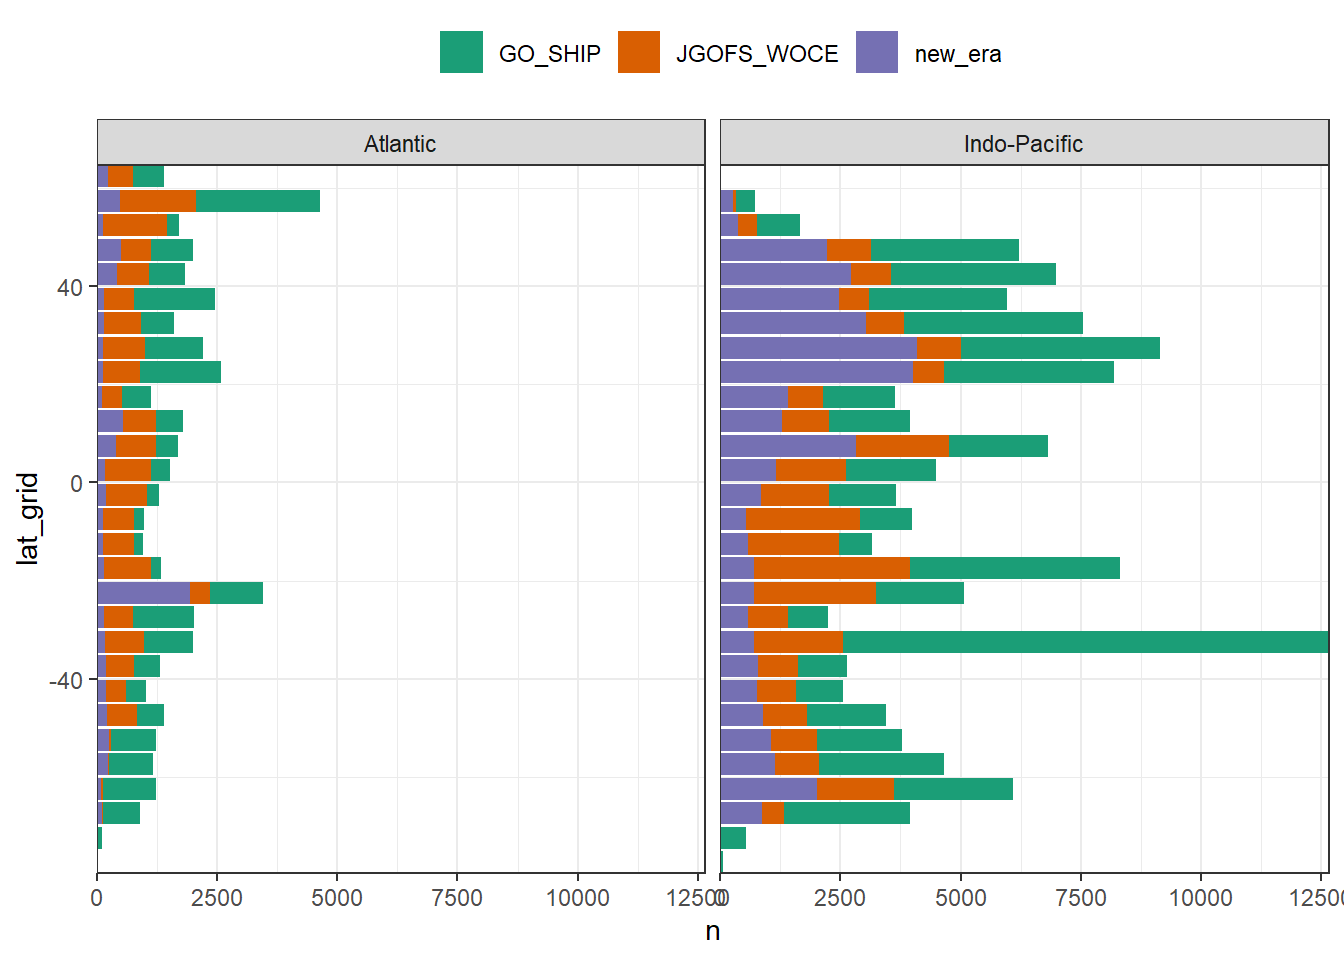
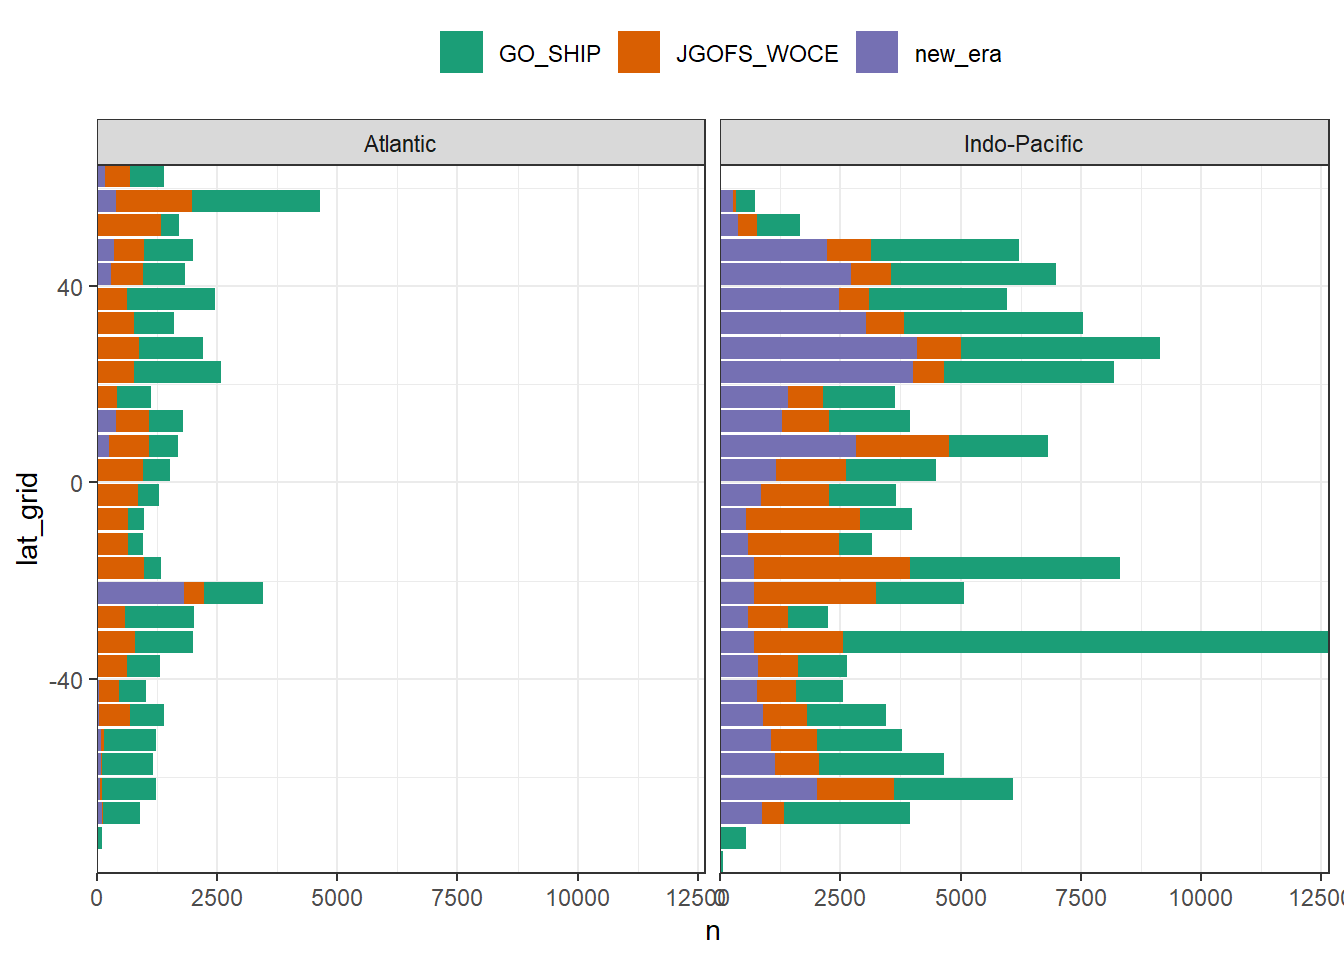
Build site.

Changed region(s): [[0.0625, 0.2188, 0.125, 0.5938], [0.0625, 0.625, 0.125, 0.8125], [0.125, 0.5938, 0.1562, 0.625]]

diff --git a/docs/read_GLODAPv2_2020.html b/docs/read_GLODAPv2_2020.html
@@ -573,16 +573,16 @@ This reproducible <a href="http://rmarkdown.rstudio.com">R Markdown</a> analysis
 <div class="panel panel-default">
 <div class="panel-heading">
 <p class="panel-title">
-<a data-toggle="collapse" data-parent="#workflowr-checks" href="#strongRepositoryversionstrongahrefhttpsgithubcomjensdanielmuellerCanteMLRtree7fb61d53b10516882f97bf51fab25c73aa8b8af8targetblank7fb61d5a"> <span class="glyphicon glyphicon-ok text-success" aria-hidden="true"></span> <strong>Repository version:</strong> <a href="https://github.com/jens-daniel-mueller/Cant_eMLR/tree/7fb61d53b10516882f97bf51fab25c73aa8b8af8" target="_blank">7fb61d5</a> </a>
+<a data-toggle="collapse" data-parent="#workflowr-checks" href="#strongRepositoryversionstrongahrefhttpsgithubcomjensdanielmuellerCanteMLRtree7460b1fa9ca00692696fd505e47eae654ef89b15targetblank7460b1fa"> <span class="glyphicon glyphicon-ok text-success" aria-hidden="true"></span> <strong>Repository version:</strong> <a href="https://github.com/jens-daniel-mueller/Cant_eMLR/tree/7460b1fa9ca00692696fd505e47eae654ef89b15" target="_blank">7460b1f</a> </a>
 </p>
 </div>
[2 lines of base64/hex data omitted]
 <div class="panel-body">
 <p>
 Great! You are using Git for version control. Tracking code development and connecting the code version to the results is critical for reproducibility.
 </p>
 <p>
-The results in this page were generated with repository version <a href="https://github.com/jens-daniel-mueller/Cant_eMLR/tree/7fb61d53b10516882f97bf51fab25c73aa8b8af8" target="_blank">7fb61d5</a>. See the <em>Past versions</em> tab to see a history of the changes made to the R Markdown and HTML files.
+The results in this page were generated with repository version <a href="https://github.com/jens-daniel-mueller/Cant_eMLR/tree/7460b1fa9ca00692696fd505e47eae654ef89b15" target="_blank">7460b1f</a>. See the <em>Past versions</em> tab to see a history of the changes made to the R Markdown and HTML files.
 </p>
 <p>
 Note that you need to be careful to ensure that all relevant files for the analysis have been committed to Git prior to generating the results (you can use <code>wflow_publish</code> or <code>wflow_git_commit</code>). workflowr only checks the R Markdown file, but you know if there are other scripts or data files that it depends on. Below is the status of the Git repository when the results were generated:
@@ -640,6 +640,40 @@ Message
 </tr>
 </thead>
 <tbody>
+<tr>
+<td>
+Rmd
+</td>
+<td>
+<a href="https://github.com/jens-daniel-mueller/Cant_eMLR/blob/7460b1fa9ca00692696fd505e47eae654ef89b15/analysis/read_GLODAPv2_2020.Rmd" target="_blank">7460b1f</a>
+</td>
+<td>
+jens-daniel-mueller
+</td>
+<td>
+2020-08-18
+</td>
+<td>
+assign A16 cruises to GO_SHIP
+</td>
+</tr>
+<tr>
+<td>
+html
+</td>
+<td>
+<a href="https://rawcdn.githack.com/jens-daniel-mueller/Cant_eMLR/29a537a7ee01b57d700956c227680e5248ebe247/docs/read_GLODAPv2_2020.html" target="_blank">29a537a</a>
+</td>
+<td>
+jens-daniel-mueller
+</td>
+<td>
+2020-08-18
+</td>
+<td>
+Build site.
+</td>
+</tr>
 <tr>
 <td>
 Rmd
@@ -2138,22 +2172,8 @@ GLODAP_stats_long  %&gt;%  write_csv(here::here(&quot;data/GLODAPv2_2020/_summar
 
 rm(GLODAP_stats_long, GLODAP_stats)</code></pre>
 </div>
-<div id="reference-eras" class="section level2">
-<h2><span class="header-section-number">2.3</span> Reference eras</h2>
-<p>Samples were assigned to following eras:</p>
-<ul>
-<li><p>JGOFS_WOCE: 1981 - 1999</p></li>
-<li><p>GO_SHIP: 2000 - 2012</p></li>
-<li><p>new_era: &gt; 2013</p></li>
-</ul>
-<pre class="r"><code>GLODAP &lt;- GLODAP %&gt;%
-  filter(year &gt;= parameters$year_JGOFS_start) %&gt;% 
-  mutate(era = &quot;JGOFS_WOCE&quot;,
-         era = if_else(year &gt; parameters$year_JGOFS_end, &quot;GO_SHIP&quot;, era),
-         era = if_else(year &gt; parameters$year_GOSHIP_end, &quot;new_era&quot;, era))</code></pre>
-</div>
 <div id="horizontal-gridding" class="section level2">
-<h2><span class="header-section-number">2.4</span> Horizontal gridding</h2>
+<h2><span class="header-section-number">2.3</span> Horizontal gridding</h2>
 <p>For merging with other data sets, all observations were grouped into latitude intervals of:</p>
 <ul>
 <li>1° x 1°</li>
@@ -2166,7 +2186,7 @@ rm(GLODAP_stats_long, GLODAP_stats)</code></pre>
   arrange(date)</code></pre>
 </div>
 <div id="basin-mask" class="section level2">
-<h2><span class="header-section-number">2.5</span> Basin mask</h2>
+<h2><span class="header-section-number">2.4</span> Basin mask</h2>
 <p>The basin mask from the World Ocean Atlas was used. For details consult the data base subsection for <a href="https://jens-daniel-mueller.github.io/Cant_eMLR/read_World_Ocean_Atlas_2018.html">WOA18</a> data.</p>
 <pre class="r"><code>GLODAP_obs &lt;- GLODAP %&gt;% 
   group_by(lat, lon) %&gt;% 
@@ -2187,6 +2207,44 @@ ggplot() +
 <p>Please note that some GLODAP observations were made outside the WOA18 basin mask and will be removed for further analysis (eg North Sea, Sea of Japan).</p>
 <pre class="r"><code>GLODAP &lt;- inner_join(GLODAP, basinmask)
 rm(basinmask)</code></pre>
+</div>
+<div id="reference-eras" class="section level2">
+<h2><span class="header-section-number">2.5</span> Reference eras</h2>
+<p>Samples were assigned to following eras:</p>
+<ul>
+<li><p>JGOFS_WOCE: 1981 - 1999</p></li>
+<li><p>GO_SHIP: 2000 - 2012</p></li>
+<li><p>new_era: &gt; 2013</p></li>
+</ul>
+<pre class="r"><code>GLODAP &lt;- GLODAP %&gt;%
+  filter(year &gt;= parameters$year_JGOFS_start) %&gt;% 
+  mutate(era = &quot;JGOFS_WOCE&quot;,
+         era = if_else(year &gt; parameters$year_JGOFS_end, &quot;GO_SHIP&quot;, era),
+         era = if_else(year &gt; parameters$year_GOSHIP_end, &quot;new_era&quot;, era))</code></pre>
+<div id="manual-adjustment-a16-cruise" class="section level3">
+<h3><span class="header-section-number">2.5.1</span> Manual adjustment A16 cruise</h3>
+<p>For harmonization with Gruber et al. (2019), cruises 1041 (A16N) and 1042 (A16S) were grouped into the GO_SHIP area despite taking place in 2013/14.</p>
+<pre class="r"><code>GLODAP_cruises &lt;- GLODAP %&gt;% 
+  filter(basin == &quot;Atlantic&quot;,
+         year %in% c(2013, 2014)) %&gt;% 
+  group_by(lat, lon, cruise) %&gt;% 
+  summarise(cruise = as.factor(mean(cruise))) %&gt;% 
+  ungroup()
+
+ggplot() +
+  geom_raster(data = landmask %&gt;% filter(region == &quot;land&quot;),
+              aes(lon, lat), fill = &quot;grey80&quot;) +
+  geom_raster(data = GLODAP_cruises, aes(lon, lat, fill = cruise)) +
+  scale_fill_brewer(palette = &quot;Dark2&quot;) +
+  coord_quickmap(expand = 0) +
+  theme(legend.position = &quot;top&quot;,
+        legend.title = element_blank())</code></pre>
+<p><img src="figure/read_GLODAPv2_2020.Rmd/GLODAP_Atl_cruises_2013_2014_map-1.png" width="672" style="display: block; margin: auto;" /></p>
+<pre class="r"><code>rm(GLODAP_cruises)</code></pre>
+<pre class="r"><code>GLODAP &lt;- GLODAP %&gt;%
+  mutate(era = if_else(cruise %in% c(1041, 1042),
+                       &quot;GO_SHIP&quot;, era))</code></pre>
+</div>
 </div>
 <div id="observations-grid" class="section level2">
 <h2><span class="header-section-number">2.6</span> Observations grid</h2>

diff --git a/docs/config_parameterization.html b/docs/config_parameterization.html
@@ -573,16 +573,16 @@ This reproducible <a href="http://rmarkdown.rstudio.com">R Markdown</a> analysis
 <div class="panel panel-default">
 <div class="panel-heading">
 <p class="panel-title">
-<a data-toggle="collapse" data-parent="#workflowr-checks" href="#strongRepositoryversionstrongahrefhttpsgithubcomjensdanielmuellerCanteMLRtreeea390e33d193bbcaa216e7b095712de37c870848targetblankea390e3a"> <span class="glyphicon glyphicon-ok text-success" aria-hidden="true"></span> <strong>Repository version:</strong> <a href="https://github.com/jens-daniel-mueller/Cant_eMLR/tree/ea390e33d193bbcaa216e7b095712de37c870848" target="_blank">ea390e3</a> </a>
+<a data-toggle="collapse" data-parent="#workflowr-checks" href="#strongRepositoryversionstrongahrefhttpsgithubcomjensdanielmuellerCanteMLRtree7460b1fa9ca00692696fd505e47eae654ef89b15targetblank7460b1fa"> <span class="glyphicon glyphicon-ok text-success" aria-hidden="true"></span> <strong>Repository version:</strong> <a href="https://github.com/jens-daniel-mueller/Cant_eMLR/tree/7460b1fa9ca00692696fd505e47eae654ef89b15" target="_blank">7460b1f</a> </a>
 </p>
 </div>
[2 lines of base64/hex data omitted]
 <div class="panel-body">
 <p>
 Great! You are using Git for version control. Tracking code development and connecting the code version to the results is critical for reproducibility.
 </p>
 <p>
-The results in this page were generated with repository version <a href="https://github.com/jens-daniel-mueller/Cant_eMLR/tree/ea390e33d193bbcaa216e7b095712de37c870848" target="_blank">ea390e3</a>. See the <em>Past versions</em> tab to see a history of the changes made to the R Markdown and HTML files.
+The results in this page were generated with repository version <a href="https://github.com/jens-daniel-mueller/Cant_eMLR/tree/7460b1fa9ca00692696fd505e47eae654ef89b15" target="_blank">7460b1f</a>. See the <em>Past versions</em> tab to see a history of the changes made to the R Markdown and HTML files.
 </p>
 <p>
 Note that you need to be careful to ensure that all relevant files for the analysis have been committed to Git prior to generating the results (you can use <code>wflow_publish</code> or <code>wflow_git_commit</code>). workflowr only checks the R Markdown file, but you know if there are other scripts or data files that it depends on. Below is the status of the Git repository when the results were generated:
@@ -640,6 +640,40 @@ Message
 </tr>
 </thead>
 <tbody>
+<tr>
+<td>
+Rmd
+</td>
+<td>
+<a href="https://github.com/jens-daniel-mueller/Cant_eMLR/blob/7460b1fa9ca00692696fd505e47eae654ef89b15/analysis/config_parameterization.Rmd" target="_blank">7460b1f</a>
+</td>
+<td>
+jens-daniel-mueller
+</td>
+<td>
+2020-08-18
+</td>
+<td>
+assign A16 cruises to GO_SHIP
+</td>
+</tr>
+<tr>
+<td>
+html
+</td>
+<td>
+<a href="https://rawcdn.githack.com/jens-daniel-mueller/Cant_eMLR/20577b7a057184a4035560228c9691eb6face4b5/docs/config_parameterization.html" target="_blank">20577b7</a>
+</td>
+<td>
+jens-daniel-mueller
+</td>
+<td>
+2020-08-18
+</td>
+<td>
+Build site.
+</td>
+</tr>
 <tr>
 <td>
 Rmd
@@ -1308,61 +1342,6 @@ $slabs_Atl
 $slabs_Ind_Pac
  [1]  -Inf 26.00 26.50 26.75 27.00 27.25 27.50 27.75 27.85 27.95 28.05 28.10
 [13]   Inf</code></pre>
-<pre class="r"><code>library(pander)
-pandoc.table(parameters, style = &quot;rmarkdown&quot;)</code></pre>
-<pre><code>
-
-| flag_f | flag_qc | depth_min | bottomdepth_min | lat_max |
-|:------:|:-------:|:---------:|:---------------:|:-------:|
-|   2    |    1    |    150    |       500       |   65    |
-
-Table: Table continues below
-
- 
-
-| year_JGOFS_start | year_JGOFS_end | year_GOSHIP_end | lon_Atl_section |
-|:----------------:|:--------------:|:---------------:|:---------------:|
-|       1981       |      1999      |      2012       |      335.5      |
-
-Table: Table continues below
-
- 
-
-| lon_Pac_section | lon_Ind_section | lat_Atl_profile | inventory_depth |
-|:---------------:|:---------------:|:---------------:|:---------------:|
-|      190.5      |      70.5       |      40.5       |      3000       |
-
-Table: Table continues below
-
- 
-
-| coarse_grid_resolution | cruises_meridional | predictors_max |
-|:----------------------:|:------------------:|:--------------:|
-|           10           |        1041        |       5        |
-
-Table: Table continues below
-
- 
-
-| predictors_min | MLR_number |     depth_levels     |
-|:--------------:|:----------:|:--------------------:|
-|       2        |     10     | c(0, 100, 500, 2000) |
-
-Table: Table continues below
-
- 
-
-|                                           slabs_Atl                                           |
-|:---------------------------------------------------------------------------------------------:|
-| c(-Inf, 26, 26.5, 26.75, 27, 27.25, 27.5, 27.75, 27.85, 27.95, 28.05, 28.1, 28.15, 28.2, Inf) |
-
-Table: Table continues below
-
- 
-
-|                                  slabs_Ind_Pac                                   |
-|:--------------------------------------------------------------------------------:|
-| c(-Inf, 26, 26.5, 26.75, 27, 27.25, 27.5, 27.75, 27.85, 27.95, 28.05, 28.1, Inf) |</code></pre>
 </div>
 <div id="write-file" class="section level1">
 <h1><span class="header-section-number">2</span> Write file</h1>
@@ -1392,10 +1371,9 @@ attached base packages:
 [1] stats     graphics  grDevices utils     datasets  methods   base     
 
 other attached packages:
- [1] pander_0.6.3     kableExtra_1.1.0 knitr_1.29       forcats_0.5.0   
- [5] stringr_1.4.0    dplyr_1.0.0      purrr_0.3.4      readr_1.3.1     
- [9] tidyr_1.1.0      tibble_3.0.3     ggplot2_3.3.2    tidyverse_1.3.0 
-[13] workflowr_1.6.2 
+ [1] kableExtra_1.1.0 knitr_1.29       forcats_0.5.0    stringr_1.4.0   
+ [5] dplyr_1.0.0      purrr_0.3.4      readr_1.3.1      tidyr_1.1.0     
+ [9] tibble_3.0.3     ggplot2_3.3.2    tidyverse_1.3.0  workflowr_1.6.2 
 
 loaded via a namespace (and not attached):
  [1] tidyselect_1.1.0  xfun_0.16         haven_2.3.1       colorspace_1.4-1 
